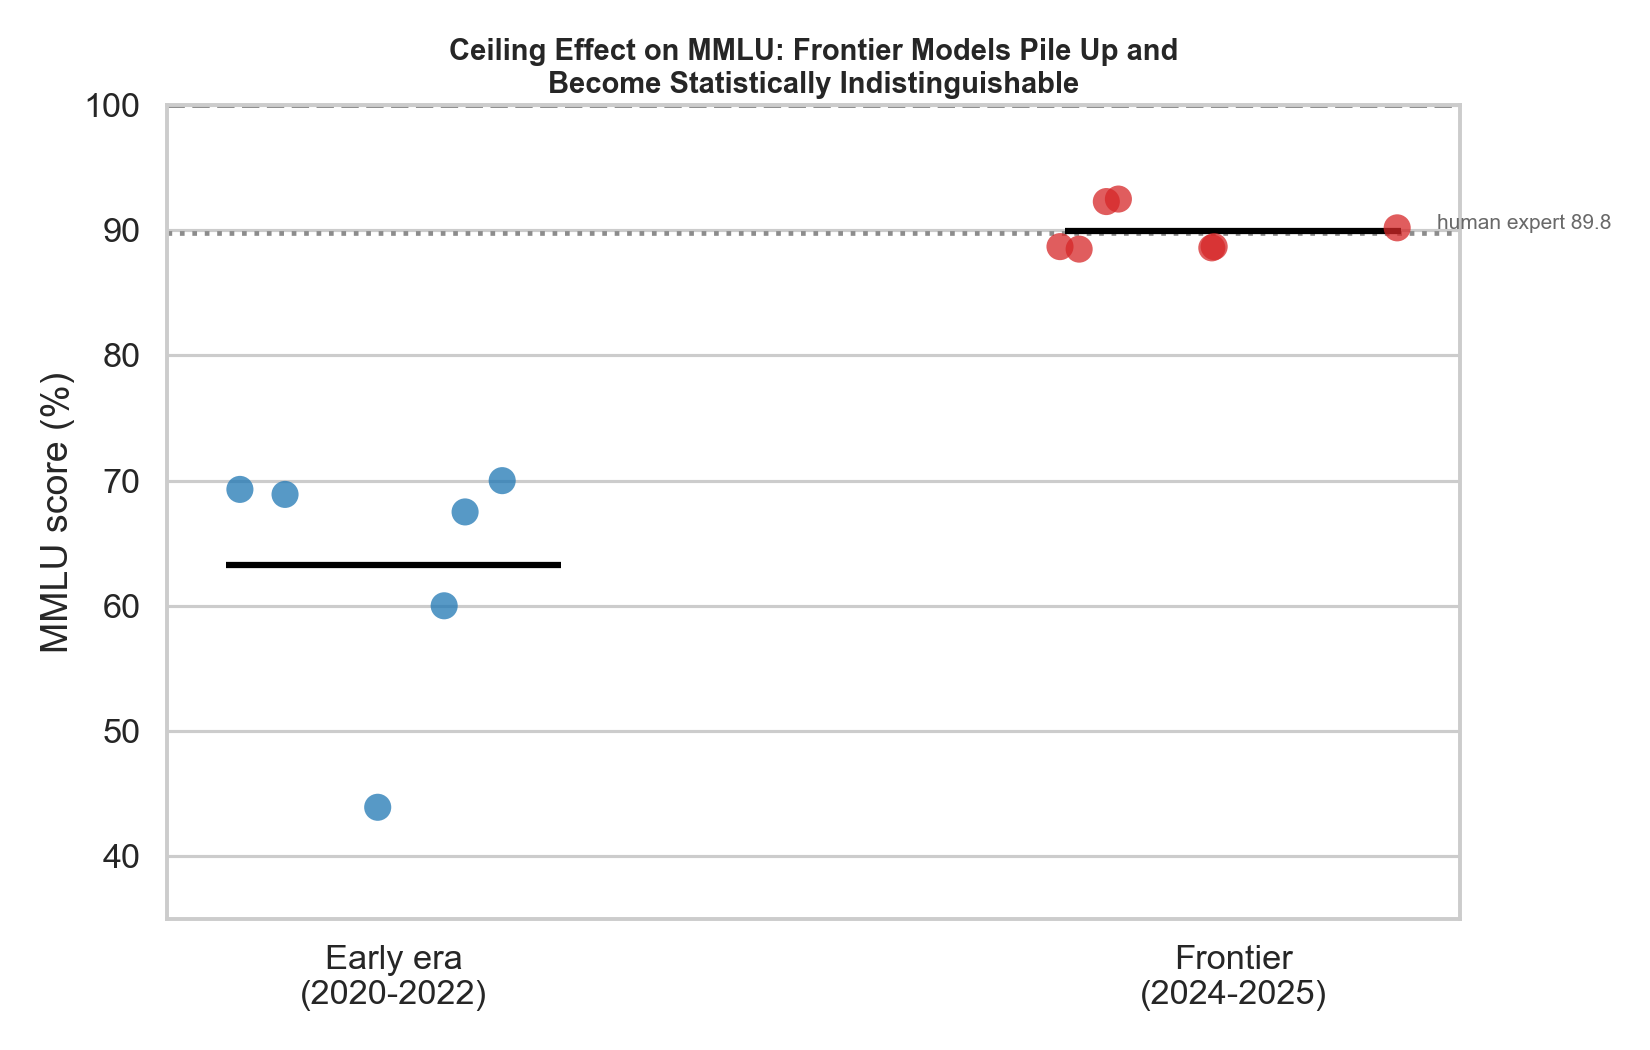
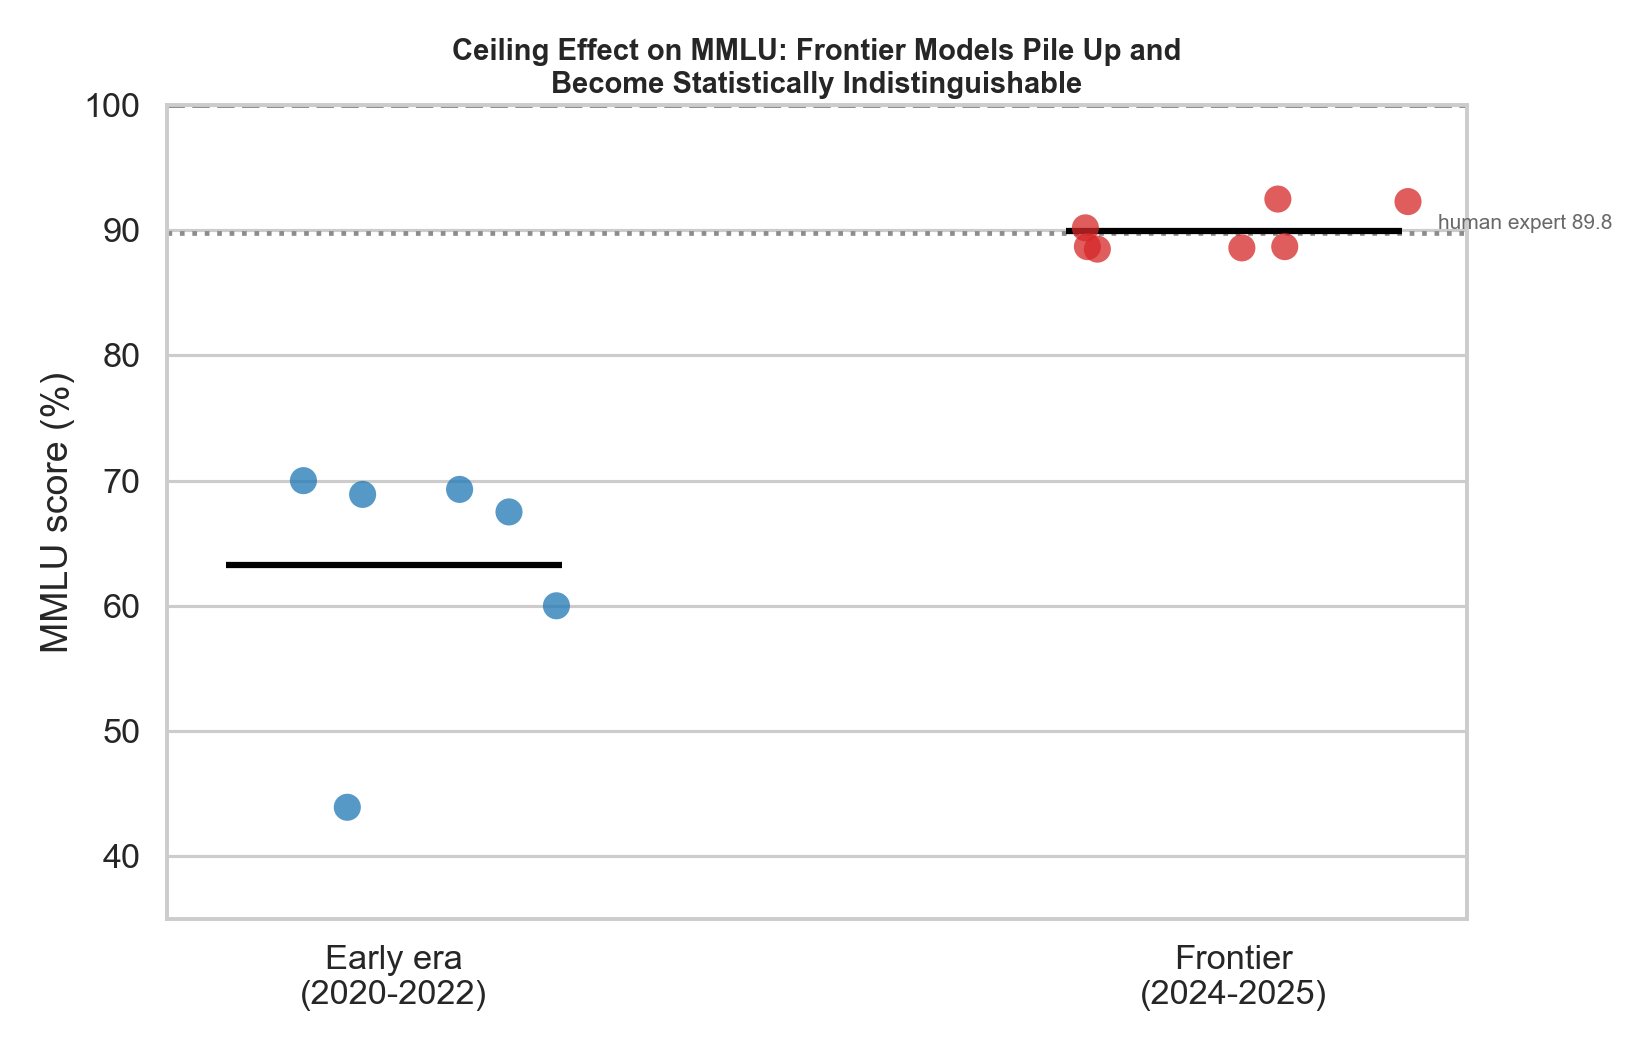
Update Fig 7 to verified Minerva false-positive-rate data
Rebuild section 5.2 around Minerva Table 5 (false-positive rate by MATH
difficulty level, 62B) replacing fabricated per-level accuracy numbers.
Update reference [20] and regenerate figures 5 and 7.

diff --git a/_posts/2026-06-21-when-the-test-stops-telling-the-truth.md b/_posts/2026-06-21-when-the-test-stops-telling-the-truth.md
@@ -194,16 +194,21 @@ makes everything below possible.
 
 ### 5.2 Difficulty stratification: report per-stratum, not just the mean
 
-**Figure 7.** On the MATH benchmark, accuracy
-collapses with difficulty: a GPT-4o-class model scores ~62% on Level-1 items but
-only ~40% on Level-5, and older models fall from the high-30s to ~5% [5, 20].
-A single mean over all five levels hides exactly the place where models differ.
-**Stratified reporting** — accuracy per difficulty band, each with its own
+**Figure 7.** The Minerva authors stratified
+MATH by difficulty and reported an *exact* per-level breakdown of the model's
+**false-positive rate** — cases where the final answer is right but the reasoning
+is wrong [20, Table 5]. It climbs monotonically with difficulty, from **under 5%**
+on Level-1 problems to **30%** on Level-5 (flat average: 8%). The implication is
+sharp: a single accuracy number increasingly *over-credits* the hardest items,
+exactly where you most want it to be trustworthy. (Tellingly, the paper tabulates
+accuracy by *subtopic* and *model scale*, but not a clean accuracy-by-level table —
+so beware second-hand "per-level accuracy" numbers; several circulating versions
+are fabricated.) **Stratified reporting** — accuracy per difficulty band, each with its own
 confidence interval — restores the signal a saturated aggregate destroys, and
 makes ceiling effects visible (easy strata saturate first; hard strata stay
 discriminative far longer).
 
-![Accuracy by MATH difficulty level](/images/evals/7_difficulty_stratification.png)
+![MATH false-positive rate by difficulty level (Minerva 62B)](/images/evals/7_difficulty_stratification.png)
 
 ### 5.3 Weighting and aggregated scoring: make hard items worth more
 
@@ -351,8 +356,10 @@ more meaning than one number can hold.
 19. Liang et al. (2022). *Holistic Evaluation of Language Models (HELM).*
     arXiv:2211.09110.
 20. Lewkowycz et al. (2022). *Solving Quantitative Reasoning Problems with
-    Language Models (Minerva).* arXiv:2206.14858. (Per-difficulty-level MATH
-    accuracy.)
+    Language Models (Minerva).* arXiv:2206.14858. (Table 5: MATH false-positive
+    rate by difficulty level for Minerva 62B — L1 <5%, L2 10%, L3 <5%, L4 15%,
+    L5 30%, avg 8%. The paper reports MATH accuracy by subtopic and model scale,
+    not a per-difficulty-level accuracy table.)
 21. Lalor et al. (2016). *Building an Evaluation Scale using Item Response
     Theory.* EMNLP. arXiv:1605.08889.
 22. Rodriguez et al. (2021). *Evaluating the Evaluation of Diversity / QA